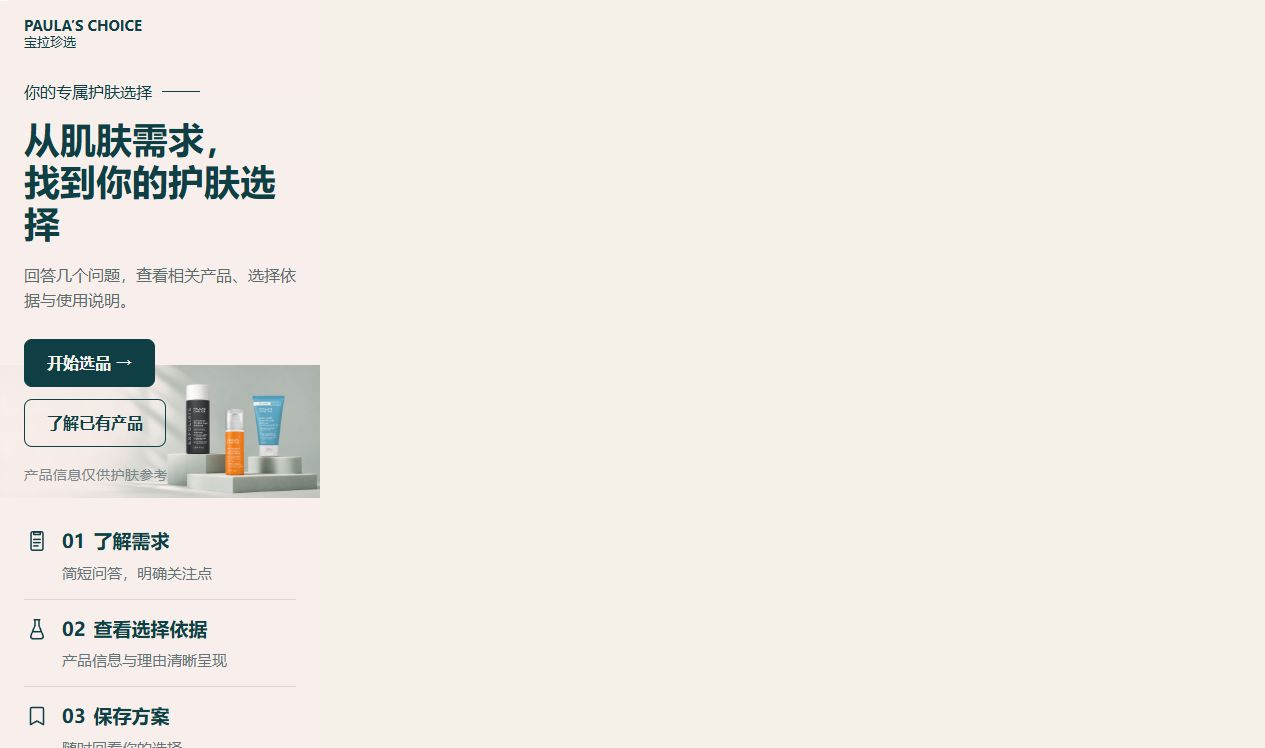
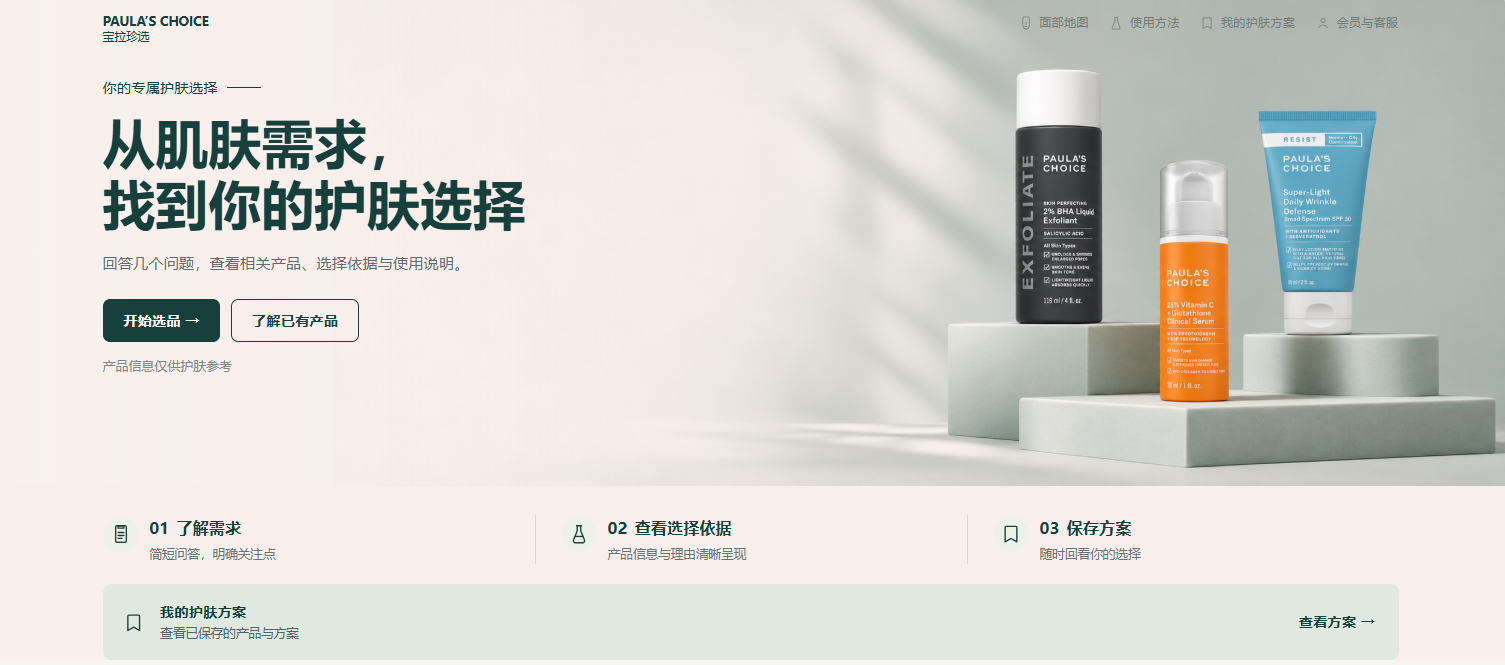
Update homepage screenshot and provide bilingual README

diff --git a/README.md b/README.md
@@ -1,26 +1,29 @@
 # AI Skincare Advisor · 护肤选购与使用顾问原型
 
-A research-informed skincare advisor prototype connecting user research, transparent recommendation rules and a working React application.
+[中文](#中文介绍) · [English](#english)
+
+![原型首页 / Prototype homepage](docs/images/home.png)
+
+## 中文介绍
 
 基于用户研究，将选品、使用疑问和后续跟进需求转化为可交互原型。以宝拉珍选产品资料为案例，展示从研究证据到产品设计、规则实现和验证的过程。
 
 > 本项目是团队项目背景下整理的作品集快照，与宝拉珍选官方无关联。当前演示使用规则与本地资料匹配，未接入大模型服务；“AI 顾问”是项目概念定位。原型不提供皮肤诊断或医疗建议。
 
-## 项目体验
+### 项目体验与文档
 
 - [在线演示](https://baola-advisor.pages.dev/)（独立部署，可能与本仓库快照存在版本差异）
 - [研究与产品决策](docs/research-and-decisions.md)
 - [实现与验证](docs/implementation.md)
 - [项目范围与贡献说明](docs/scope-and-contributions.md)
 - [数据与素材说明](docs/data-and-assets.md)
+- [验证记录](docs/validation.md)
 
-![原型首页](docs/images/home.png)
-
-## 要解决的问题
+### 要解决的问题
 
 用户的问题不仅发生在购买之前，也发生在开始使用之后：如何识别具体产品、理解使用说明、判断资料是否足够，以及出现不适时下一步该做什么。原型将“帮我选”和“已有产品，了解用法”分开，并通过可追溯规则限制推荐范围。
 
-## 已实现的体验
+### 已实现的体验
 
 - 选品与使用问答：结合当前不适、肤质、目标、成分经验、已有产品和预算筛选。
 - 面部区域入口：点击示意图进入相关产品结果，不要求上传面部照片。
@@ -28,24 +31,26 @@ A research-informed skincare advisor prototype connecting user research, transpa
 - 保存与模拟会员、跟进体验；相关状态存储在浏览器本地。
 - 信息不足、不适和候选不明确等分支，避免强行给出产品。
 
-| 面部区域入口 | 产品对比 |
+| 面部区域入口 / Face map | 产品对比 / Product comparison |
 |---|---|
-| ![面部示意图](docs/images/face-map-woman.png) | ![产品对比](docs/images/product-compare.png) |
+| ![面部示意图 / Face map](docs/images/face-map-woman.png) | ![产品对比 / Product comparison](docs/images/product-compare.png) |
 
-## 研究基础与边界
+### 研究基础与边界
 
 项目材料包含问卷、访谈及社交平台讨论分析。此版本公开汇总方法与设计转化，不发布原始答卷、访谈或评论明细。
 
 抖音评论文件的本地结构复核结果：1,300 条记录、8 个视频、5 个采集关键词；共有 1,120 种不同文本，按“同视频＋完全相同文本”合并得到 1,121 个文本单元。这些不是独立用户数。定向采样、来源集中和重复文本限制了外推；关键词检索结果不能视为人工确认后的需求频数。
 
-## 本地运行
+### 本地运行
 
-需要支持 `--experimental-strip-types` 的 Node.js 22.6+（建议使用受支持的 Node.js 22 或更高版本）与 npm。
+需要支持 `--experimental-strip-types` 的 Node.js 22.6+ 与 npm。安装与启动：
 
 ```bash
 npm ci
 npm run dev
 ```
+
+验证与构建：
 
 ```bash
 npm test
@@ -56,21 +61,99 @@ npm run preview
 
 `build` 与 `test` 会先从 `data/products.json` 生成前端目录 `data/products.public.json`。部署时需要支持 BrowserRouter 的 SPA 回退；构建输出为 `dist/`。
 
-## 技术与目录
+### 技术与目录
 
 React、TypeScript、React Router、Vite；Node.js 内置测试工具。
 
-```text
-src/          页面、问答状态、筛选规则、保存与会员模拟
-data/         产品资料、前端目录与图片来源记录
-scripts/      产品目录导出
-tests/        推荐规则、存储、展示、会员与跟进测试
-public/       演示素材
-docs/         研究方法、实现边界与项目说明
-```
+| 目录 | 内容 |
+|---|---|
+| `src/` | 页面、问答状态、筛选规则、保存与会员模拟 |
+| `data/` | 产品资料、前端目录与图片来源记录 |
+| `scripts/` | 产品目录导出 |
+| `tests/` | 推荐规则、存储、展示、会员与跟进测试 |
+| `public/` | 演示素材 |
+| `docs/` | 研究方法、实现边界与项目说明 |
 
-## 当前限制
+### 当前限制与素材权利
 
 这是可交互原型，未证明实际转化率、收入提升或护肤效果。产品价格为资料参考价，并非当前售价；产品资料提取与字段匹配不等于完成官方事实核验。没有真实会员账户、支付、后台消息发送或线上用户实验。
 
-品牌名称、包装与其他第三方素材的权利归各自权利人。仓库未授予这些素材的再使用许可，也未为整个项目添加开源许可证。个人与团队贡献边界见贡献说明。
+品牌名称、包装与其他第三方素材的权利归各自权利人。仓库未授予这些素材的再使用许可，也未为整个项目添加开源许可证。个人与团队贡献边界见[贡献说明](docs/scope-and-contributions.md)。
+
+---
+
+## English
+
+A research-informed skincare advisor prototype that turns product-selection questions, usage concerns and follow-up needs into an interactive experience. Using Paula’s Choice product materials as a case study, it connects research evidence with product design, explicit rules and implementation validation.
+
+> This portfolio snapshot comes from a team project and is not affiliated with Paula’s Choice. The current demo uses rules and local product data; it does not connect to a large language model service. “AI advisor” describes the project concept. The prototype does not provide skin diagnoses or medical advice.
+
+### Demo and documentation
+
+- [Live demo](https://baola-advisor.pages.dev/) — deployed separately and may differ from this repository snapshot.
+- [Research and product decisions](docs/research-and-decisions.md)
+- [Implementation and validation](docs/implementation.md)
+- [Project scope and contributions](docs/scope-and-contributions.md)
+- [Data and assets](docs/data-and-assets.md)
+- [Validation results](docs/validation.md)
+
+The supporting documents linked above are currently in Chinese.
+
+### The problem
+
+Skincare questions arise both before purchase and during use: identifying the exact product, understanding its instructions, recognising when information is insufficient and deciding what to do when discomfort occurs. The prototype separates product selection from questions about products already owned, with traceable rules constraining the results.
+
+### Implemented features
+
+- Product-selection and usage questionnaires covering current discomfort, skin type, goals, ingredient experience, existing products and budget.
+- A separate face-map entry point leading to related products, without uploading facial photographs.
+- Product browsing, details and comparison, with a return path that preserves selection state.
+- Saved plans, simulated membership and follow-up interactions, with relevant state stored locally in the browser.
+- Branches for insufficient information, discomfort and ambiguous candidates, avoiding forced product selections.
+
+See the face-map and product-comparison screenshots in the Chinese section above. The homepage screenshot at the top shows the prototype interface; the app interface is in Chinese.
+
+### Research basis and limitations
+
+Project materials include a questionnaire, interviews and analysis of social-platform discussions. This repository shares summary methods and their translation into design decisions, without publishing raw questionnaire responses, interviews or individual comments.
+
+A local structural check of the Douyin comment file found 1,300 records from 8 videos and 5 collection keywords. There were 1,120 distinct texts and 1,121 text units after merging identical text within the same video. These are not counts of unique users. Targeted sampling, concentrated sources and repeated text limit generalisation. Keyword search matches are not manually verified frequencies of user needs.
+
+### Run locally
+
+Requires npm and Node.js 22.6+ with support for `--experimental-strip-types`.
+
+```bash
+npm ci
+npm run dev
+```
+
+Run checks and create a production build:
+
+```bash
+npm test
+npm run lint
+npm run build
+npm run preview
+```
+
+Both `build` and `test` first generate `data/products.public.json` from `data/products.json`. Hosting must support an SPA fallback for BrowserRouter routes. The production output is `dist/`.
+
+### Stack and structure
+
+React, TypeScript, React Router and Vite, with the built-in Node.js test runner.
+
+| Directory | Contents |
+|---|---|
+| `src/` | Pages, questionnaire state, filtering rules, saved plans and membership simulation |
+| `data/` | Product materials, frontend catalogue and image provenance |
+| `scripts/` | Product catalogue export |
+| `tests/` | Rules, storage, display, membership and follow-up tests |
+| `public/` | Demo assets |
+| `docs/` | Research methods, implementation boundaries and project documentation |
+
+### Current limitations and asset rights
+
+This is an interactive prototype. It has not demonstrated improvements in conversion, revenue or skincare outcomes. Prices are reference prices from project materials, not current selling prices. Extracting product information and matching fields does not establish official factual verification. There are no real membership accounts, payments, backend messaging or live user experiments.
+
+Brand names, packaging and other third-party assets belong to their respective rights holders. This repository does not grant permission to reuse those assets, and no open-source licence has been applied to the project as a whole. See the [contribution statement](docs/scope-and-contributions.md) for the boundary between individual and team work.
